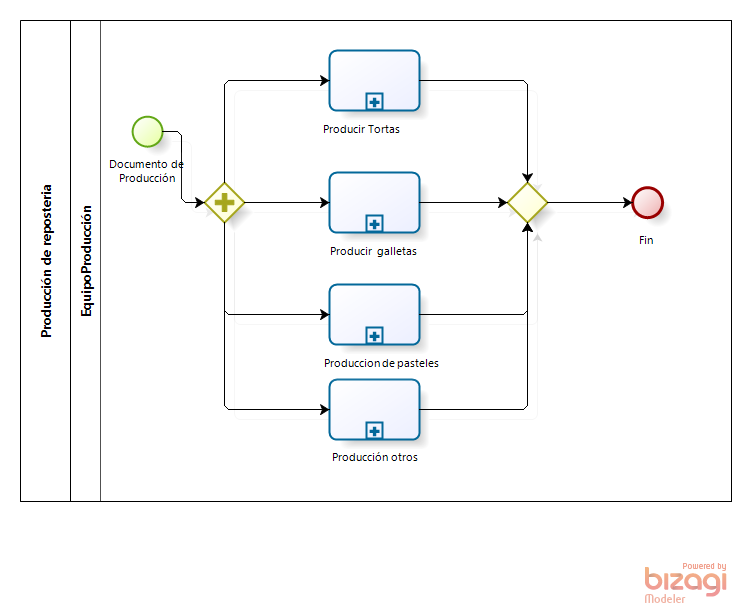
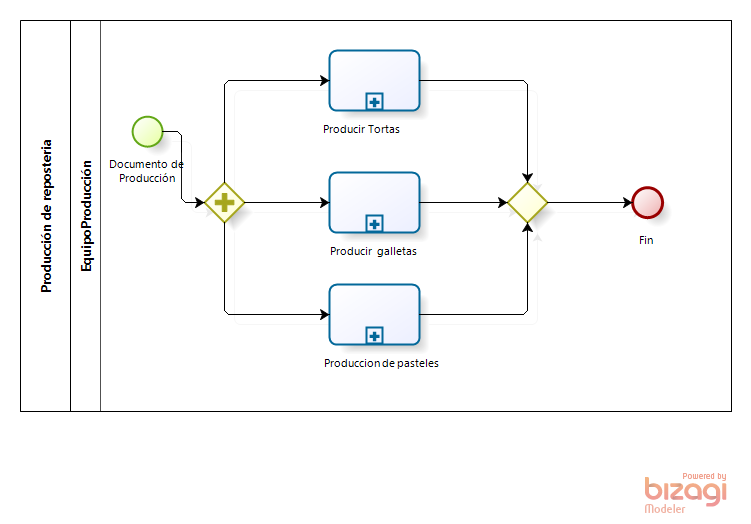
intro, conclusion y imagen

diff --git a/src/introduccion.tex b/src/introduccion.tex
@@ -1,3 +1,6 @@
 En este informe se realiza el modelado de los procesos de negocio de la panadería Rodenas que está ubicada en Rancagua, donde fabrica, vende y distribuye sus productos a lo largo de gran parte de la provincia del Cachapoal. Nace 1948 aproximadamente, en la localidad de Coya desde donde se expande hacia la ciudad de Rancagua, por la iniciativa e involucramiento de los hijos del fundador. En este momento va en la tercera generación de gestión, teniendo 20 trabajadores repartidos en distintos turnos, y otras panaderias con el mismo nombre pero sin relacion comercial con la panaderia en estudio, los lazos son meramente familiares.
 Como misión manifiesta la de producir y vender pan de buena sabor, aspecto y duradero en el tiempo. Entregando productos de calidad en la región manteniendo la costumbre chilena en la fabricación de este.
 La filosofía de la empresa con respecto a sus proyecciones o visión es bastante limitada. Manteniendo la postura de “vivir el día a día”, acortando la mirada a plazos lo más pequeño posible posible. De esta manera se ha mantenido más de 60 años funcionando, con todos los altos y bajos que ha manifestado la industria.
+\\
+Para efectos de este proyecto, se ha incorporado la sección ``reposteria", la cual se encarga de producir tortas, pasteles y galletas. Cabe destacar que son procesos extraidos de la panadería del supermercado Hiper Lider 15 norte de la ciudad de Viña del mar. Si bien, la diferencia en cuanto a tamaño de ambos, es grande, el proceso que se debe hacer para su producción es el mismo. \\
+Además es posible que este mecanismo tambien ayude a la empresa de panadería ampliar sus rangos de venta hacia la repostería.

diff --git a/src/conclusion.tex b/src/conclusion.tex
@@ -1,0 +1,4 @@
+En cuanto a las conclusiones podemos decir, que modelar los procesos de una panadería es especialmente ideal, puesto que posee claramente identificados los roles de cada participante de las actividades que se deben realizar.\\
+Se observa que la mayor parte de los procesos tienen como responsable al administrador de la organización, por lo que como mejora, si es que la carga es muy grande, se podría delegar esta responsabilidad a otra persona siendo el administrador solo supervisor de los procesos.\\
+Por otro lado, como lo describimos al comienzo, si se realizan los cambios y extensiones pertinentes, es posible ampliar el rango de ventas de la panaderia, añadiendo una sección repostería que permitiera vender tortas, galletas y/o pasteles.\\
+En cuanto a la herramienta utilizada, es bastante fácil de utilizar, pues contiene todos los elementos de la notación BPMN 2.0 y está especialmente diseñado para este fin, en contraste con la herramienta ProcessMaker, la cual es un poco menos intuitiva además de no incorporar todos los elementos necesarios para el modelamiento, pero si para gestionarlos.
